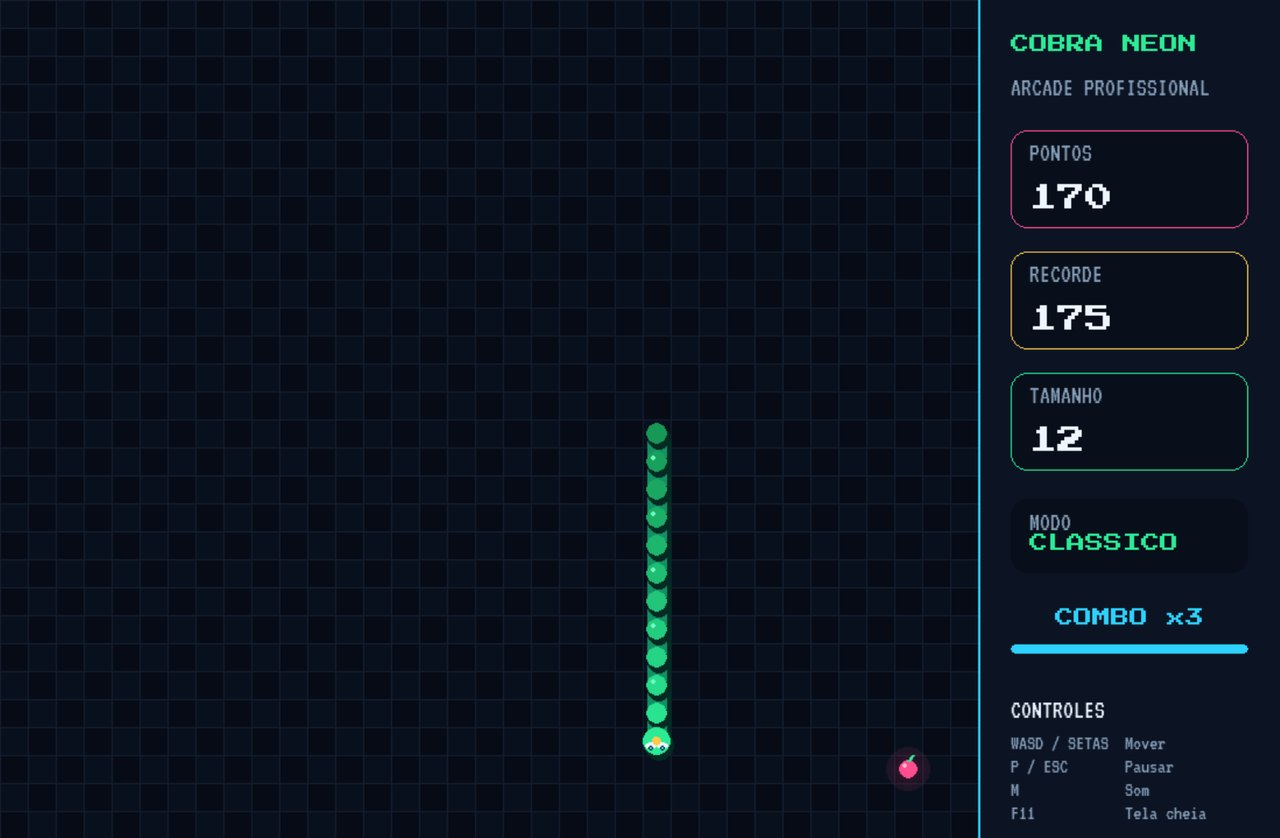
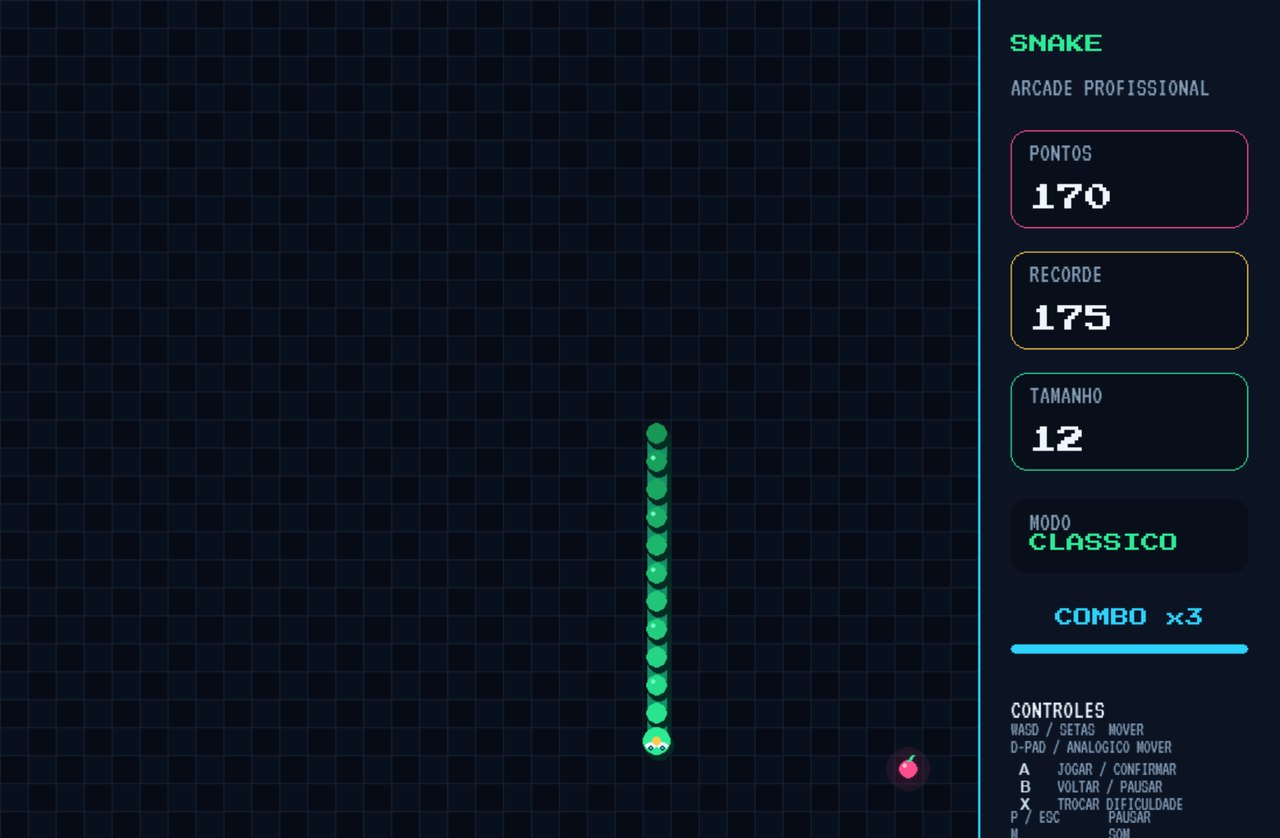
Padroniza os títulos dos jogos
- Snake, Pong, Frogger, Space Invaders e Flappy Bird passam a mostrar o nome do projeto nas telas
  e na janela (antes: Cobra Neon, Ping Pong em Pygame, Sapo Aventureiro, Neon Void, Flappy Bird: Skyward)
- Launcher: janela 'E-Place - Launcher' e lista com os nomes Pong e Flappy Bird
- Teste dos títulos da lista; captura do Snake e página da documentação atualizadas

Changed region(s): [[0.7812, 0.8377, 0.9375, 1.0], [0.7812, 0.031, 0.9375, 0.0621]]

diff --git a/src/games/Snake/main.py b/src/games/Snake/main.py
@@ -14,7 +14,7 @@ import pygame
 from gamepad import XboxController, draw_controller_text, draw_controls_table
 
 # ============================================================
-# Cobra Neon - jogo completo em um unico arquivo
+# Snake - jogo completo em um unico arquivo
 # Controles: setas/WASD, P/ESC pausa, M som, F11 tela cheia
 # Requer: pip install pygame
 # ============================================================
@@ -42,7 +42,7 @@ RED = (255, 77, 91)
 
 pygame.init()
 controller = XboxController()
-pygame.display.set_caption("Cobra Neon")
+pygame.display.set_caption("Snake")
 
 
 def clamp(value, low, high):
@@ -504,7 +504,7 @@ class SnakeGame:
 
     def draw_hud(self):
         x = PLAY_W + 28
-        title = self.font_md.render("COBRA NEON", True, GREEN)
+        title = self.font_md.render("SNAKE", True, GREEN)
         self.canvas.blit(title, (x, 30))
         self.canvas.blit(self.font_sm.render("ARCADE PROFISSIONAL", True, MUTED), (x, 64))
 
@@ -552,10 +552,8 @@ class SnakeGame:
             x = (i * 113 + int(pygame.time.get_ticks() * 0.02)) % (WIDTH + 100) - 50
             y = 100 + (i * 67) % 520
             self.glow_circle(self.canvas, (x, y), 2 + (i % 3), CYAN if i % 2 else GREEN, 2)
-        logo = self.font_xl.render("COBRA", True, WHITE)
-        neon = self.font_xl.render("NEON", True, GREEN)
-        self.canvas.blit(logo, logo.get_rect(center=(WIDTH // 2 - 88, 138)))
-        self.canvas.blit(neon, neon.get_rect(center=(WIDTH // 2 + 128, 138)))
+        logo = self.font_xl.render("SNAKE", True, GREEN)
+        self.canvas.blit(logo, logo.get_rect(center=(WIDTH // 2, 138)))
         subtitle = self.font_md.render("Sobreviva. Cresca. Supere o recorde.", True, MUTED)
         self.canvas.blit(subtitle, subtitle.get_rect(center=(WIDTH // 2, 210)))
 

diff --git a/src/games/Space Invaders/game/app.py b/src/games/Space Invaders/game/app.py
@@ -2,7 +2,7 @@ import os
 os.environ["SDL_VIDEO_WINDOW_POS"] = "0,0"
 os.environ["SDL_VIDEO_X11_NET_WM_BYPASS_COMPOSITOR"] = "0"
 """
-NEON VOID - arcade espacial em um unico arquivo.
+SPACE INVADERS - arcade espacial em um unico arquivo.
 Requisito: pip install pygame
 Execucao: python main.py
 
@@ -49,7 +49,7 @@ def salvar_recorde(valor):
 # ----------------------------- CONFIGURACAO -----------------------------
 WIDTH, HEIGHT = 960, 540
 FPS = 60
-TITLE = "NEON VOID"
+TITLE = "SPACE INVADERS"
 Vec = pygame.Vector2
 
 BLACK = (2, 5, 15)
@@ -567,8 +567,8 @@ class Game:
         glow_circle(screen,BLUE,(760,155),72,4)
         pygame.draw.circle(screen,(25,67,125),(760,155),64)
         pygame.draw.arc(screen,(80,170,255),(695,120,130,55),0,math.pi,8)
-        text(screen,"NEON",FONT_BIG,WHITE,(66,75))
-        text(screen,"VOID",FONT_BIG,CYAN,(66,137))
+        text(screen,"SPACE",FONT_BIG,WHITE,(66,75))
+        text(screen,"INVADERS",FONT_BIG,CYAN,(66,137))
         text(screen,"COMANDO ESTELAR",FONT_SMALL,(145,190,230),(71,213))
         items=("INICIAR MISSAO","COMO JOGAR","CONTROLES","SAIR")
         for i,item in enumerate(items):

diff --git a/main.py b/main.py
@@ -1,5 +1,5 @@
 """
-Eplace - Launcher de Jogos (minimalista)
+E-Place - Launcher de Jogos (minimalista)
 ========================================
 Tela inicial: imagem de fundo (assets/ui/background.png) + menu central
 (Jogar / Configuracoes / Sair) com animacao subindo/descendo.
@@ -120,7 +120,13 @@ def listar_jogos():
     return jogos
 
 
+# Nomes exibidos no launcher quando diferem do nome da pasta do jogo.
+NOMES_DOS_JOGOS = {"Ping pong": "Pong", "Flappy bird": "Flappy Bird"}
+
+
 def nome_bonito(nome):
+    if nome in NOMES_DOS_JOGOS:
+        return NOMES_DOS_JOGOS[nome]
     if nome.lower().startswith("game") and nome[4:].isdigit():
         return "Game " + nome[4:]
     return nome[:1].upper() + nome[1:]
@@ -136,7 +142,7 @@ class Eplace:
         self.capas_cache = {}  # Adicione esta linha aqui
         pygame.init()
         self.controle = XboxController()
-        pygame.display.set_caption("Eplace - Launcher")
+        pygame.display.set_caption("E-Place - Launcher")
         self.cfg = carregar_config()
         self.som_botao = None
         self._iniciar_musica_menu()

diff --git a/src/games/Frogger/game/game.py b/src/games/Frogger/game/game.py
@@ -117,7 +117,7 @@ class Game:
         self.ox, self.oy = (ww - self.out_w) // 2, (wh - self.out_h) // 2
         self.textos = []
         self._fontes = {}
-        pygame.display.set_caption("Sapo Aventureiro Pixel")
+        pygame.display.set_caption("Frogger")
         self.canvas = pygame.Surface((VW, VH))
         self.clock = pygame.time.Clock()
         self.FONT = 8
@@ -544,7 +544,7 @@ class Game:
             # e rodape reservado para navegacao/atalhos, sem cobrir os botoes.
             hero = pygame.transform.scale(self.frog.build_sprite(), (84, 74))
             self.canvas.blit(hero, (VW // 2 - 42, 14))
-            self.text_center("SAPO AVENTUREIRO", 24, 92, FROG_BELLY)
+            self.text_center("FROGGER", 24, 92, FROG_BELLY)
             self.text_center("TRAVESSIA PIXEL - FASES INFINITAS", 10, 127, FROG_LIGHT)
             self.text_center("Troncos e tartarugas sao seguros. Jacares, cobras e agua nao.", 8.5, 151, WHITE)
             self.text_center("Chegue na vitoria-regia no topo para passar de fase. Mosca vale +200.", 8.0, 165, WHITE)

diff --git a/tests/test_launcher.py b/tests/test_launcher.py
@@ -30,6 +30,12 @@ class TestLauncher(unittest.TestCase):
     def test_nome_bonito(self):
         self.assertEqual(self.main.nome_bonito("game6"), "Game 6")
         self.assertEqual(self.main.nome_bonito("snake"), "Snake")
+        self.assertEqual(self.main.nome_bonito("Ping pong"), "Pong")
+        self.assertEqual(self.main.nome_bonito("Flappy bird"), "Flappy Bird")
+
+    def test_titulos_dos_jogos_na_lista(self):
+        titulos = sorted(j["titulo"] for j in self.main.listar_jogos())
+        self.assertEqual(titulos, ["Flappy Bird", "Frogger", "Kombate", "Pong", "Snake", "Space Invaders"])
 
     def test_config_padrao_quando_arquivo_nao_existe(self):
         antigo = self.main.CONFIG_PATH

diff --git a/src/games/Ping pong/game/game.py b/src/games/Ping pong/game/game.py
@@ -213,7 +213,7 @@ class Game:
         pygame.draw.rect(self.screen, (32, 46, 66), self.screen.get_rect(), 4)
 
     def _draw_menu(self):
-        draw_text(self.screen, 'PING PONG', 76, FOREGROUND_COLOR, (SCREEN_WIDTH // 2, 125), True)
+        draw_text(self.screen, 'PONG', 76, FOREGROUND_COLOR, (SCREEN_WIDTH // 2, 125), True)
         draw_text(self.screen, 'ARCADE', 26, ACCENT_COLOR, (SCREEN_WIDTH // 2, 182), True)
         items = ('1  JOGADOR VS CPU', '2  JOGADORES', 'CONTROLES', 'SAIR')
         for i, item in enumerate(items):

diff --git a/src/games/Flappy bird/settings.py b/src/games/Flappy bird/settings.py
@@ -1,7 +1,7 @@
 """Configuracoes centrais do jogo."""
 WIDTH, HEIGHT = 480, 720
 FPS = 60
-TITLE = "Flappy Bird: Skyward"
+TITLE = "Flappy Bird"
 GRAVITY = 1540
 FLAP_FORCE = -475
 PIPE_SPEED = 205

diff --git a/src/games/Ping pong/settings.py b/src/games/Ping pong/settings.py
@@ -1,7 +1,7 @@
 SCREEN_WIDTH = 1280
 SCREEN_HEIGHT = 720
 FPS = 120
-TITLE = 'Ping Pong em Pygame'
+TITLE = 'Pong'
 
 BACKGROUND_COLOR = (10, 18, 32)
 FOREGROUND_COLOR = (236, 240, 241)

diff --git a/eplace-docs/docs/jogos/snake.md b/eplace-docs/docs/jogos/snake.md
@@ -1,14 +1,14 @@
 ---
 id: snake
 title: Snake
-description: Regras, controles e conceitos de programação do Snake (Cobra Neon).
+description: Regras, controles e conceitos de programação do Snake.
 ---
 
 <div className="eyebrow">MINI-GAME / GAME_01</div>
 
 # 🐍 Snake
 
-<p className="lead">Cresça, marque pontos e não deixe a cobra se enroscar. Versão neon com combos, comida especial e três dificuldades. Dentro do jogo o título aparece como **Cobra Neon**.</p>
+<p className="lead">Cresça, marque pontos e não deixe a cobra se enroscar. Versão neon com combos, comida especial e três dificuldades.</p>
 
 ![Snake em partida, com painel de pontos, recorde e modo](/img/jogos/snake.jpg)
 
